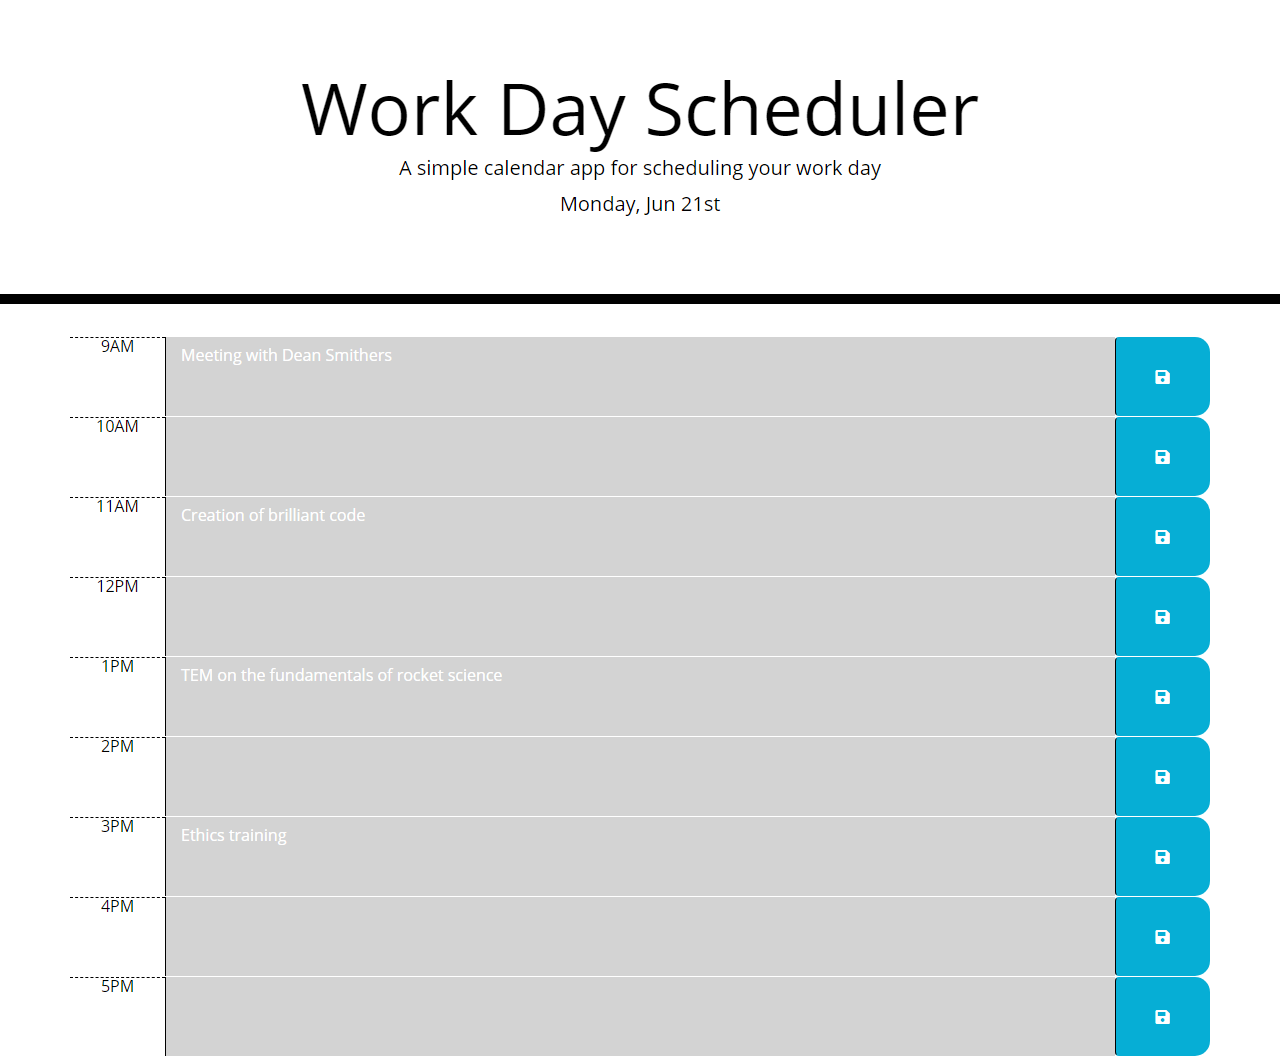
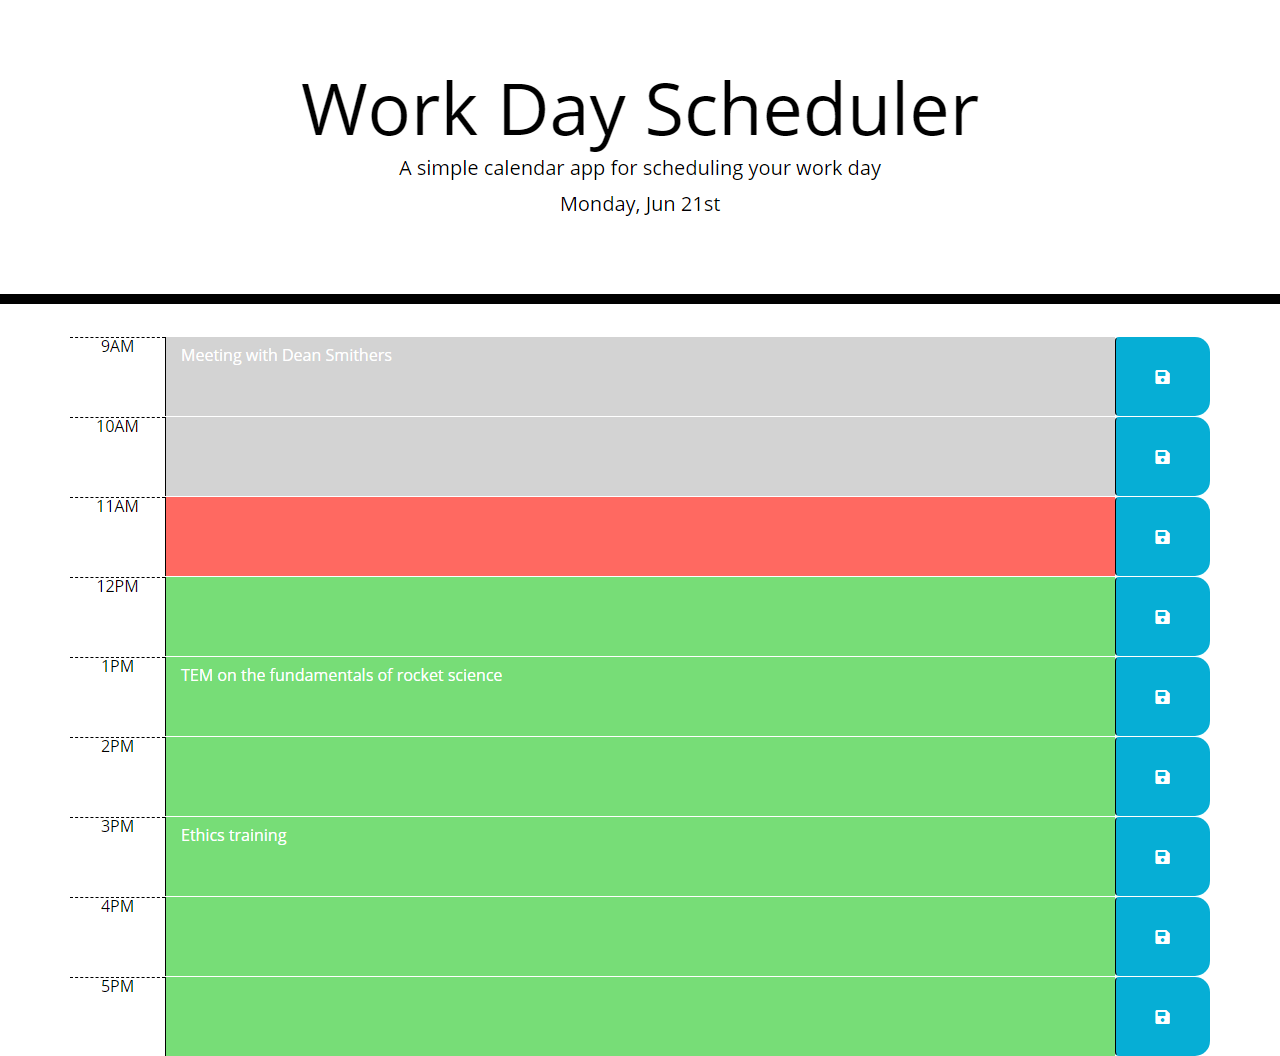
Updated Readme

diff --git a/assets/js/script.js b/assets/js/script.js
@@ -52,6 +52,7 @@ function saveMyStuff(event) {
 function calColors() {
     //Get the time of day
     var time = moment().format("kk");
+    time=11;
 
     //Based upon the time of day, add the appropriate class to the time blocks that will style them.
     for (var i=9; i <= 17; i++) {

diff --git a/README.md b/README.md
@@ -8,4 +8,4 @@
 * The GitHub Repo is located here: https://github.com/shooters00/Work-Day-Scheduler 
 
 ### Screenshots of project:
-![screencapture](https://github.com/shooters00/Coding-Quiz/blob/main/Assets/Images/ScreenCapture.png)
+![screencapture](https://github.com/shooters00/Work-Day-Scheduler/blob/main/assets/Images/ScreenCapture.png)
